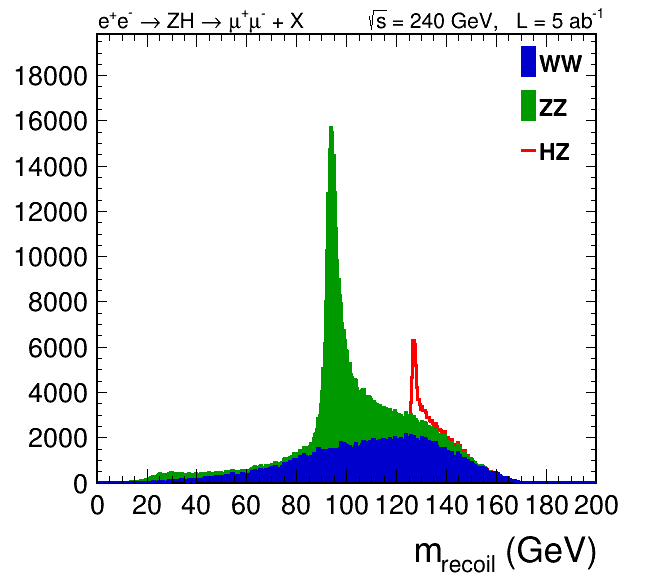
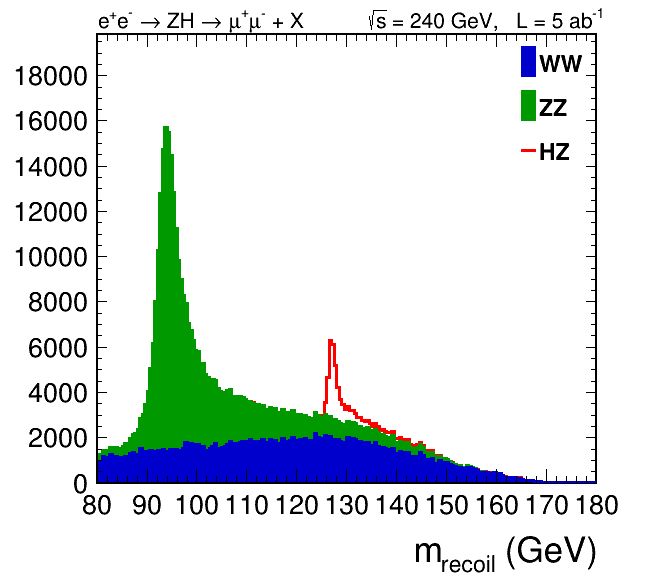
minor change to histogram range

diff --git a/Recoil/plot_recoil.py b/Recoil/plot_recoil.py
@@ -10,11 +10,6 @@ import os, sys, math
 import ROOT
 import multiprocessing
 
-import tdrstyle
-
-# CMS Style (estilo para los plots)
-tdrstyle.setTDRStyle()
-
 # Enable multi-threading (parallel processing, do not use more than 8 cores)
 maxcpus = multiprocessing.cpu_count()
 ROOT.EnableImplicitMT(min(maxcpus,8))
@@ -56,7 +51,7 @@ for i in range(nProcesses):
     df[p] = df[p].Define("Muon_pt","sqrt( pow(Muon_px,2)+pow(Muon_py,2) ) ")
     # Tambien queremos la energia del muon. E^2=M^2+P^2, aqui c=1. La masa es muy pequeña,
     # podriamos descartarla 
-    df[p] = df[p].Define("Muon_E","sqrt(pow(Muon_px,2)+pow(Muon_py,2)+pow(Muon_pz,2)+pow(0.105,2))")
+    df[p] = df[p].Define("Muon_E","sqrt(pow(Muon_px,2)+pow(Muon_py,2)+pow(Muon_pz,2)+pow(Muon_mass,2))")
 
     # A partir de los dos muones [0] y [1], vamos a reconstruir la masa invariante del par
     # de muones.  
@@ -112,7 +107,7 @@ hRecoilTheta={}
 for i in range(nProcesses):
    p = processes[i]
    hMass[p] = df[p].Histo1D(("Z_mass_{}".format(p), "Dimuon mass;m_{#mu#mu} (GeV);N_{Events}",80,70, 110), "Dimuon_mass")
-   hRecoil[p] = df[p].Histo1D(("Recoil_mass_{}".format(p), "Z leptonic recoil mass; m_{recoil} (GeV);N_{Events}",400,0, 200), "recoil")
+   hRecoil[p] = df[p].Histo1D(("Recoil_mass_{}".format(p), "Z leptonic recoil mass; m_{recoil} (GeV);N_{Events}",200,80, 180), "recoil")
 
    hZPt[p] = df[p].Histo1D(("Z_Pt_{}".format(p), "Dimuon Pt; Z Pt (GeV);N_{Events}",120,0, 120), "Dimuon_Pt")
    hRecoilPt[p] = df[p].Define("recoilPt","(p4total-DiMuon_p4).Pt()").Histo1D(("Recoil_Pt_{}".format(p), "Recoil Pt; Z recoil Pt (GeV);N_{Events}",100,0,120), "recoilPt")
